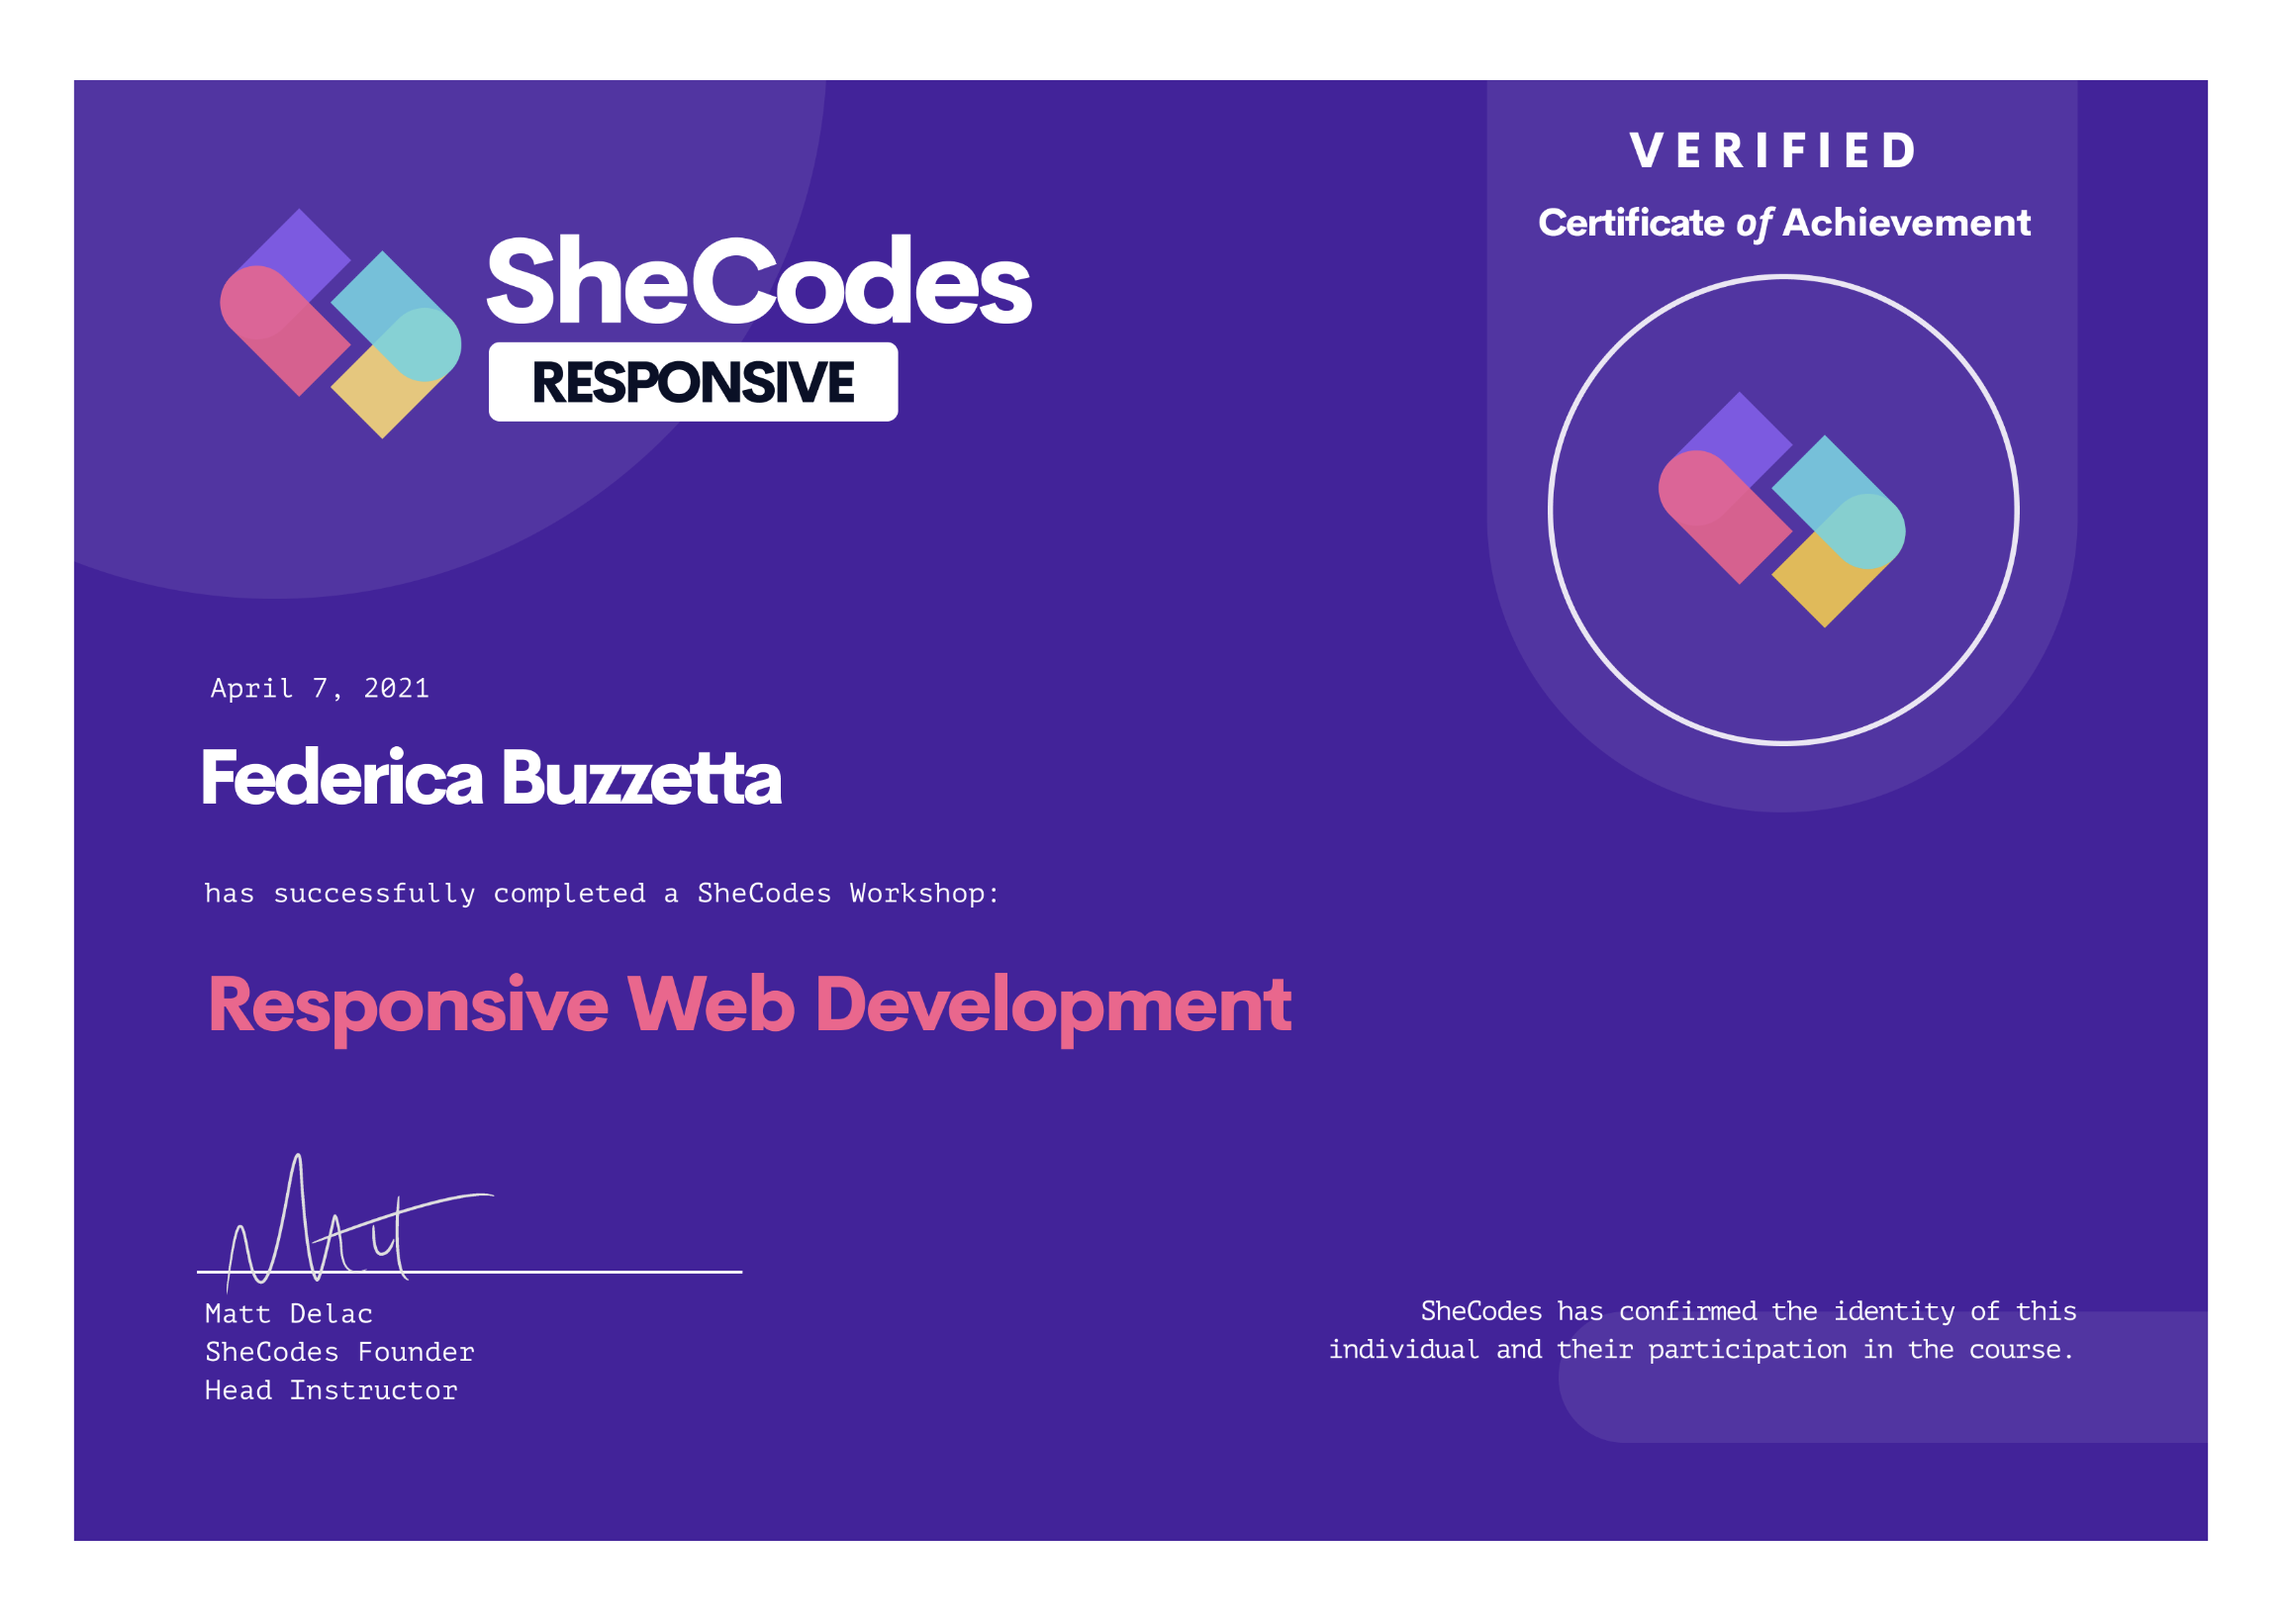
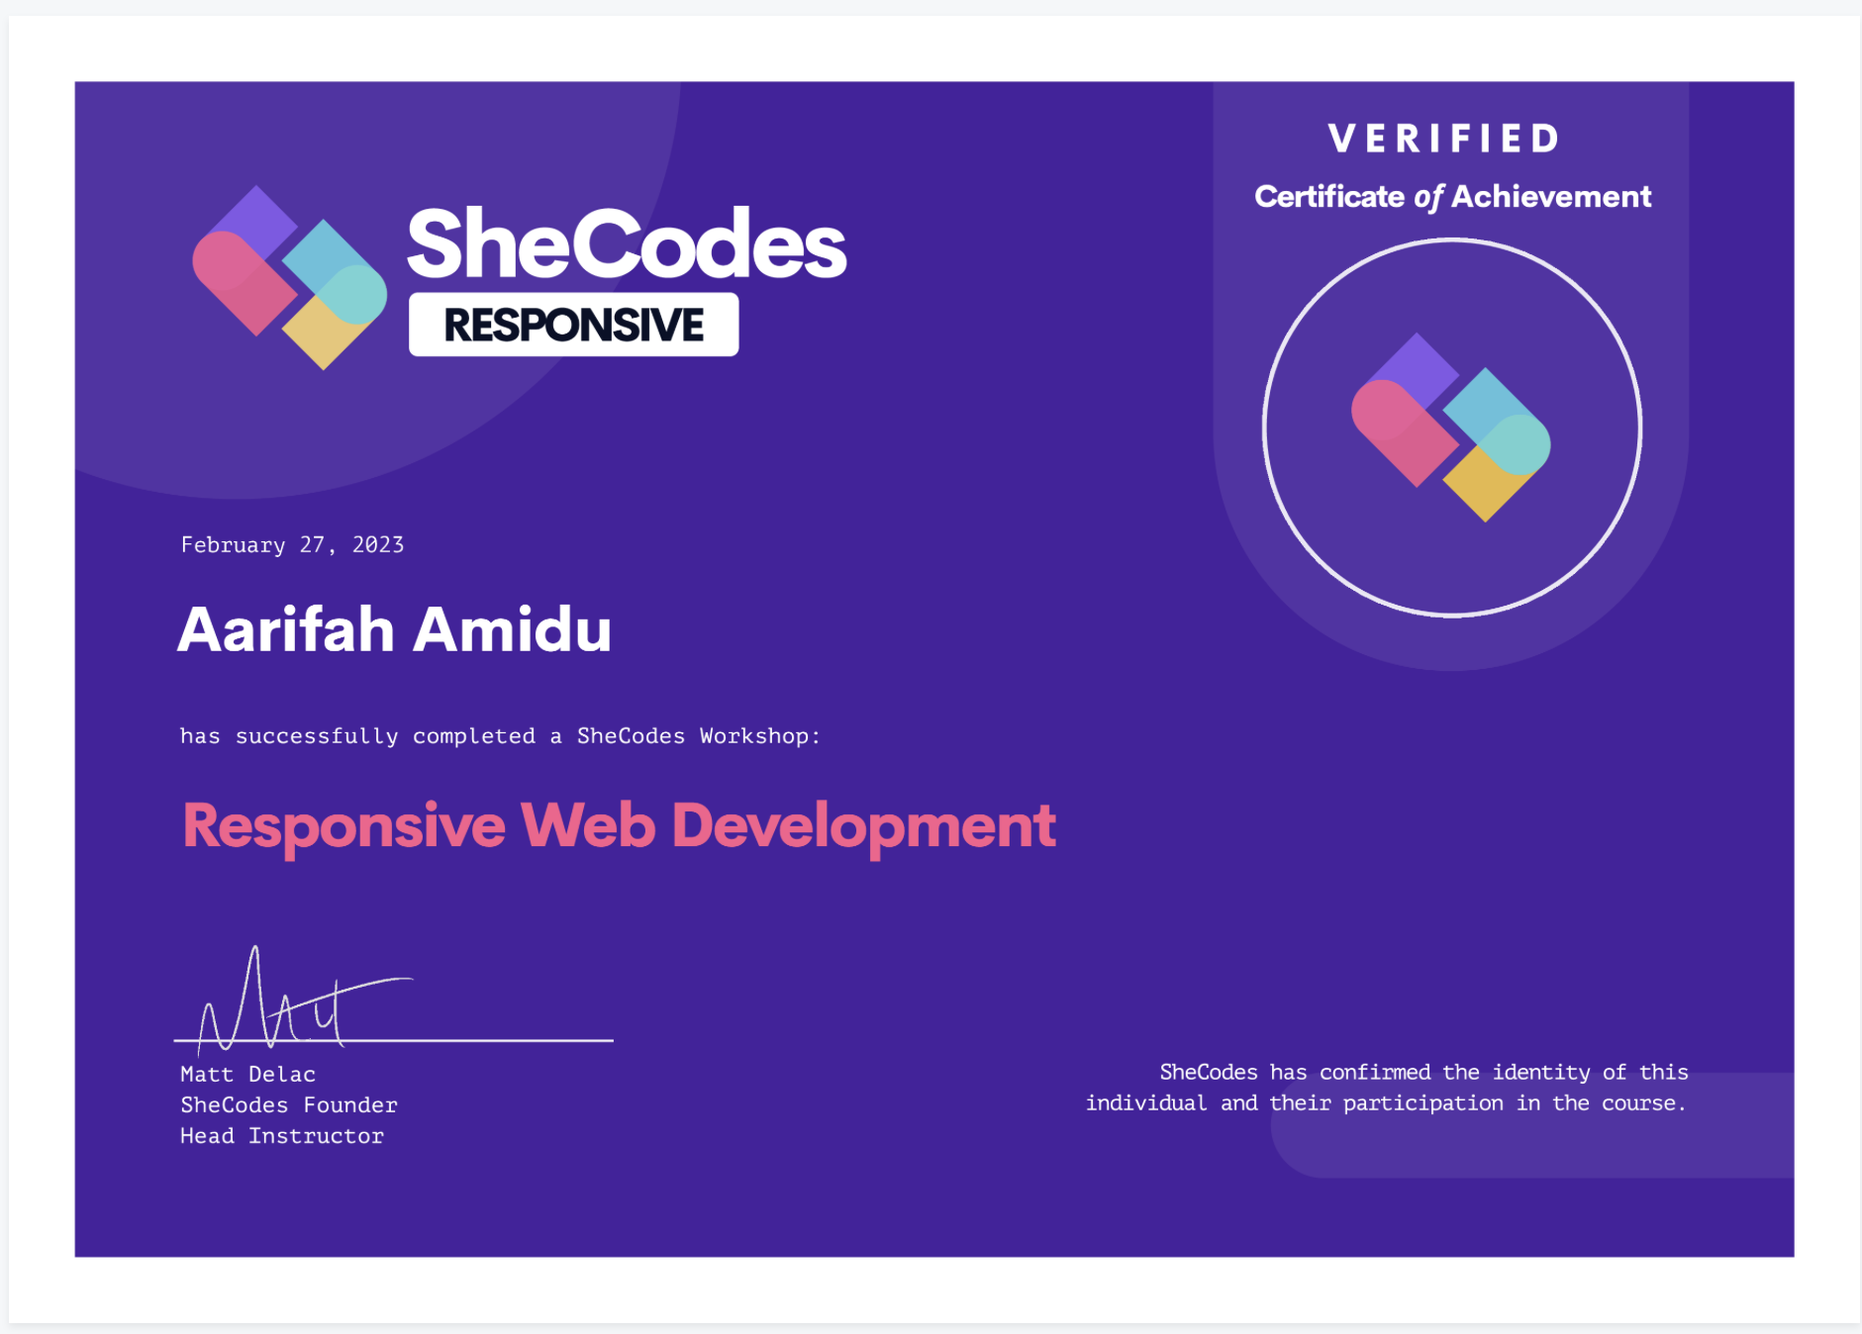
changes
Changed a few things and updated my certificates

diff --git a/projects.html b/projects.html
@@ -46,8 +46,8 @@
           class="navbar-brand border border-dark p-3 mt-2"
           href="/"
           title="Aarifah Amidu's projects"
-          >AA
-        </a>
+          >AA</a
+        >
         <button
           class="navbar-toggler"
           type="button"
@@ -85,14 +85,16 @@
         </div>
       </div>
     </nav>
+
     <!--Projects-->
     <h2 class="mt-2 second-heading" id="project">Projects</h2>
     <div class="container">
       <p>
-        These are some of th projects I have been working on. (This portfolio
+        These are some of the projects I have been working on. (This portfolio
         included). There will be more soon!
       </p>
       <br />
+      <!-- Landing Page Project -->
       <div class="row">
         <div class="col-md-6">
           <img
@@ -104,7 +106,7 @@
         <div class="col-md-6">
           <h2 class="mb-3">Landing Page</h2>
           <p>
-            This was my first ever project created for SheCodes Basic.
+            This was my first-ever project created for SheCodes Basic.
             <br />
             Built with JS, HTML, and CSS
           </p>
@@ -117,6 +119,8 @@
           </div>
         </div>
       </div>
+
+      <!-- Weather App Project -->
       <div class="row mt-5">
         <div class="col-md-6">
           <h2 class="mb-3">Weather app</h2>
@@ -153,6 +157,8 @@
           />
         </div>
       </div>
+
+      <!-- StarWars Top Trumps Project -->
       <div class="row mt-5">
         <div class="col-md-6">
           <img
@@ -165,18 +171,18 @@
           <h2 class="mb-3">StarWars top trumps</h2>
           <p>
             A top trumps game created for Code First Girls python course. The
-            main goal of this project was to work as a team remotely which came
-            with its own challenges. The game needed an API to create. You play
-            against a computer until you run out of lives. Each rounds scores
+            main goal of this project was to work as a team remotely, which came
+            with its challenges. The game needed an API to create. You play
+            against a computer until you run out of lives. Each round's scores
             are saved to an external file.
             <br />
-            Built with starwars API and pycharm
+            Built with StarWars API and PyCharm
           </p>
           <div class="mt-5">
             <a
               href="https://docs.google.com/presentation/d/1hwqAxuVZOnEPyssJMunAOUymh0duLOSF/edit?usp=sharing&ouid=104431528633508700111&rtpof=true&sd=true"
               class="btn"
-              >Launch Top trumps powerpoint</a
+              >Launch Top trumps PowerPoint</a
             >
             <a href="https://github.com/aariamidu/Starwars">
               <br />
@@ -190,19 +196,21 @@
           </div>
         </div>
       </div>
+
+      <!-- Supermarket Points System Project -->
       <div class="row mt-5">
         <div class="col-md-6">
           <h2 class="mb-3">Supermarket points system</h2>
           <p>
             A supermarket points system created for Code First Girls python
-            course. The main goal of this project was to also work as a team
+            course. The main goal of this project was to work as a team
             remotely. The SQL database was created with a series of four tables
-            which all linked together using primary and foreign keys. Stored
-            functions and procedures were created so who ever running the
-            database could find out how many groceries each indiviual member had
-            and so how many overall points they got from that shop. Tableau was
-            then used to create visuals of the points which was then used to
-            create an interactive dashboard.
+            that all linked together using primary and foreign keys. Stored
+            functions and procedures were created so whoever running the
+            database could find out how many groceries each individual member
+            had and how many overall points they got from that shop. Tableau was
+            then used to create visuals of the points, which was used to create
+            an interactive dashboard.
             <br />
             Built with MySQL
           </p>
@@ -210,7 +218,7 @@
             <a
               href="https://docs.google.com/presentation/d/1SThygdjidNASfMPJzGRX58OBpR66_GL-/edit?usp=share_link&ouid=104431528633508700111&rtpof=true&sd=true"
               class="btn"
-              >Launch Supermarket points system powerpoint</a
+              >Launch Supermarket points system PowerPoint</a
             >
             <a href="https://github.com/aariamidu/SQL-final-project">
               <br />
@@ -231,13 +239,72 @@
           />
         </div>
       </div>
-    </div>
-    <footer>
-      <div class="social-links d-flex justify-content-center">
-        <a href="https://github.com/aariamidu" target="_blank">
-          <i class="fab fa-github"></i>
-        </a>
+
+      <!-- Currency Converter Project -->
+      <div class="row mt-5">
+        <div class="col-md-6">
+          <img
+            src="images/currency.png"
+            class="img-fluid rounded hide-me"
+            alt="currency converter"
+          />
+        </div>
+        <div class="col-md-6">
+          <h2 class="mb-3">Currency Converter</h2>
+          <p>
+            I've developed a Java application for currency conversion that
+            showcases my understanding of Java syntax, inheritance, and
+            exception handling. The project includes a
+            <code>CurrencyConverter</code> interface with essential methods like
+            converting currency, retrieving currency codes, and fetching
+            exchange rates. In the implementation,
+            <code>BasicCurrencyConverter.java</code>, I've incorporated
+            exception handling to manage situations such as missing or invalid
+            currency codes and null amounts. To simplify the process, I've used
+            a hard-coded HashMap in the <code>CurrenciesGBP</code> class to
+            store currency rates. The code is well-documented, adhering to best
+            practices for comments, providing a solid foundation for my Java
+            programming skills.
+          </p>
+        </div>
       </div>
-    </footer>
+
+      <!-- Emissions Calculator Project -->
+      <div class="row mt-5">
+        <div class="col-md-6">
+          <h2 class="mb-3">Emissions Calculator</h2>
+          <p>
+            An emissions calculator project to estimate carbon emissions based
+            on user inputs. Built with HTML, CSS, Java and JavaScript.
+          </p>
+          <p>
+            I've created the Emissions Calculator API, offering a
+            straightforward way to estimate carbon emissions for different
+            journeys. The user-friendly interface simplifies the process,
+            providing precise emissions data and insights into offsetting CO2
+            with trees. I've documented the API's endpoints for calculations,
+            destination IDs, and CRUD operations, ensuring a comprehensive
+            understanding. To enhance the user experience, I've included a UI
+            frontend for seamless interaction. Explore, calculate emissions, and
+            uncover efficient analysis possibilities!
+          </p>
+        </div>
+        <div class="col-md-6">
+          <img
+            src="images/emissions.png"
+            class="img-fluid rounded hide-me"
+            alt="emissions calculator"
+          />
+        </div>
+      </div>
+
+      <footer>
+        <div class="social-links d-flex justify-content-center">
+          <a href="https://github.com/aariamidu" target="_blank">
+            <i class="fab fa-github"></i>
+          </a>
+        </div>
+      </footer>
+    </div>
   </body>
 </html>

diff --git a/about.html b/about.html
@@ -92,23 +92,28 @@
       <div class="row">
         <div class="col-sm-6">
           <p>
-            Hello, my name is Aarifah Amidu, a railway engineer transitioning
-            into the world of tech.
+            Hello there, I'm Aarifah Amidu, and I'm on this amazing journey from
+            railway engineering to the thrilling world of technology!
             <br />
             <br />
-            Self taught since September 2022.
+            Ever since I started teaching myself in September 2022, every day
+            feels like a new adventure. I absolutely love solving problems, and
+            the tech world provides an endless playground for that. It's a
+            journey of constant learning and growth, and I'm excited to keep
+            adding new skills to my toolkit. The tech landscape is always
+            evolving, and being a part of that evolution is both challenging and
+            incredibly rewarding.
             <br />
             <br />
-            Problem-solving is something that I love doing and tech is full of
-            it! Tech is ever changing, so I will be continuously increasing my
-            knowledge thus adding to what I already know.It gives me an
-            opportunity to work with new innovations and technology as the world
-            continues to develop. I am excited to take this journey great start
-            and willing to break into the field of tech.
+            Beyond the world of coding, I find joy in the simplicity of outdoor
+            activities. Whether it's the wind in my hair during an abseiling
+            adventure or the adrenaline rush from jumping off cliffs, I embrace
+            each moment. Life is all about balance, right?
             <br />
             <br />
-            I love spending my free time outdoors absailing and jumping off
-            cliffs!
+            So, join me on this genuine and sometimes challenging, but always
+            exciting, ride into the tech realm. Let's learn, grow, and have a
+            good time along the way!
           </p>
         </div>
 

diff --git a/skills.html b/skills.html
@@ -122,11 +122,12 @@
     <div class="col-sm-12">
       <h2 class="mt-2 second-heading" id="proof">Certificates</h2>
       <p>
-        Here are some of the certificates I have earnt. There are more to come.
+        Here are some of the certificates I have earned. There are more to come.
         Click on them!
       </p>
       <div class="container">
         <div class="row">
+          <!-- Existing Certificates -->
           <div class="col-md-6">
             <a
               href="https://www.shecodes.io/certificates/287c8f65d053cde8bba13e759fd6afcb"
@@ -136,7 +137,8 @@
                 src="/images/basic.png"
                 class="img-fluid shadow-sm mb-3 certificate"
                 width="400px"
-            /></a>
+              />
+            </a>
           </div>
           <div class="col-md-6">
             <a
@@ -150,8 +152,26 @@
               />
             </a>
           </div>
+          <!-- New Certificates -->
+          <div class="col-md-6">
+            <a href="#link-to-responsive-certificate" target="blank">
+              <img
+                src="/images/responsive.png"
+                class="img-fluid shadow-sm mb-3 certificate"
+                width="400px"
+              />
+            </a>
+          </div>
+          <div class="col-md-6">
+            <img
+              src="/images/microsoft.png"
+              class="img-fluid shadow-sm mb-3 certificate"
+              width="400px"
+            />
+          </div>
         </div>
 
+        <!-- Other Certificates -->
         <div class="row mt-5">
           <div class="col-md-6">
             <img
@@ -170,12 +190,5 @@
         </div>
       </div>
     </div>
-    <footer>
-      <div class="social-links d-flex justify-content-center">
-        <a href="https://github.com/aariamidu" target="_blank">
-          <i class="fab fa-github"></i>
-        </a>
-      </div>
-    </footer>
   </body>
 </html>

diff --git a/index.html b/index.html
@@ -96,7 +96,7 @@
 
     <h1>Aarifah Amidu</h1>
     <h2>
-      Software/React Developer,
+      Software Developer,
       <br />
       Based in London
     </h2>
